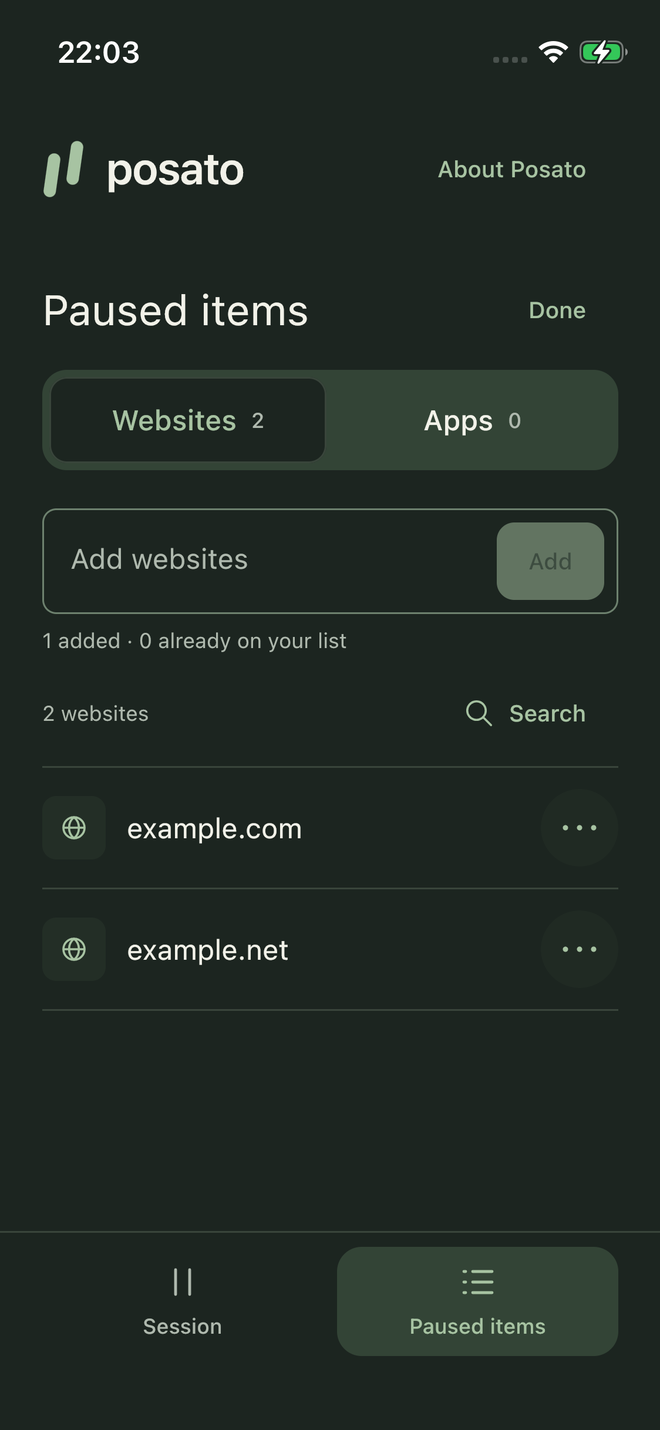
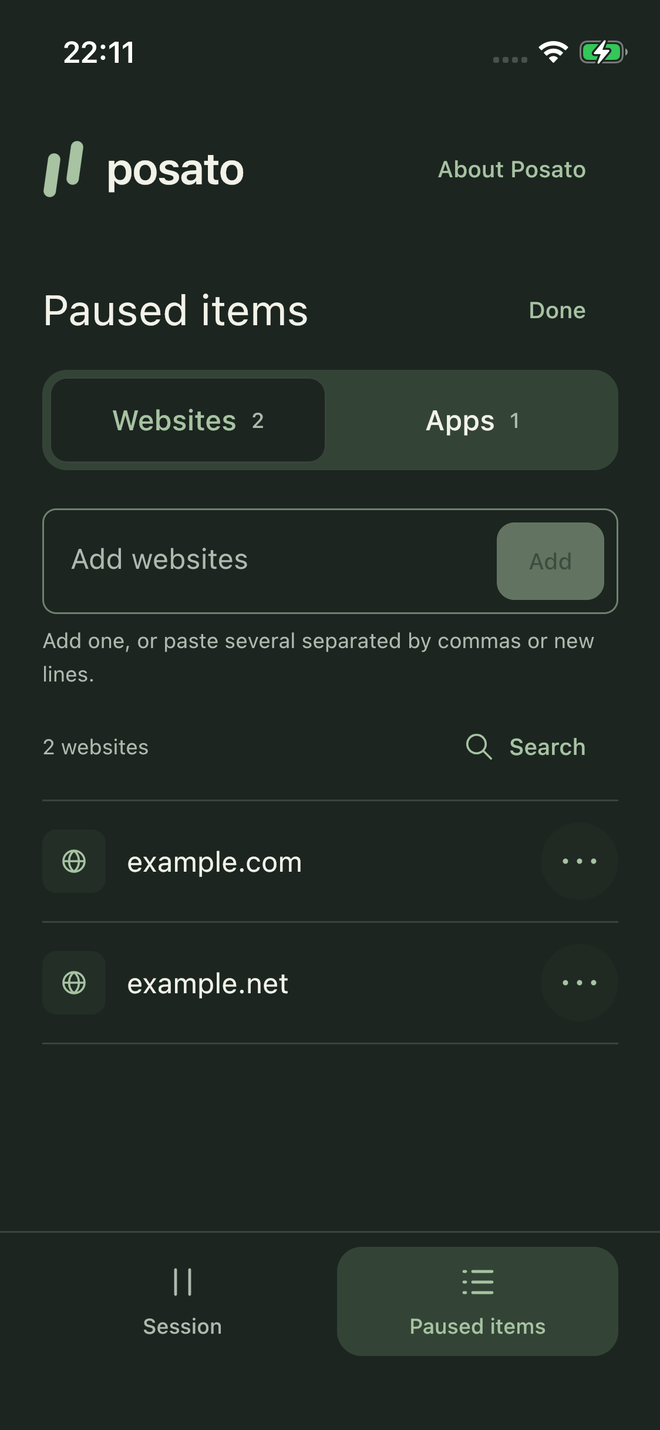
DOCS-002: Recapture the iPhone websites screen, tighten the paired layout, point the site at the 45-minute captures

diff --git a/video/src/scenes/TitleScene.tsx b/video/src/scenes/TitleScene.tsx
@@ -25,7 +25,7 @@ export const TitleScene: React.FC<{ readonly scene: StoryScene }> = ({ scene }) 
         )}
         <Eyebrow delay={6}>{copyString(scene, "eyebrow")}</Eyebrow>
         <Headline delay={10}>{copyString(scene, "headline")}</Headline>
-        <Support delay={18}>{copyString(scene, "support") || ""}</Support>
+        {scene.copy.support ? <Support delay={18}>{scene.copy.support}</Support> : null}
         {steps ? <Support delay={26} size={26}>{steps}</Support> : null}
         {footer ? <Support delay={26} size={26}>{footer}</Support> : null}
       </div>

diff --git a/video/src/layout.ts b/video/src/layout.ts
@@ -88,8 +88,8 @@ export type Layout = { readonly mac?: FrameSpec; readonly iphone?: FrameSpec };
 export const LAYOUTS = {
   macSolo: { mac: { device: "mac", left: 250, top: 70, width: 1100 } },
   macWithPhone: {
-    mac: { device: "mac", left: 60, top: 130, width: 1060 },
-    iphone: { device: "iphone", left: 1190, top: 150, width: 340 },
+    mac: { device: "mac", left: 80, top: 120, width: 980 },
+    iphone: { device: "iphone", left: 1180, top: 140, width: 340 },
   },
   phoneLead: {
     mac: { device: "mac", left: 90, top: 190, width: 900 },
